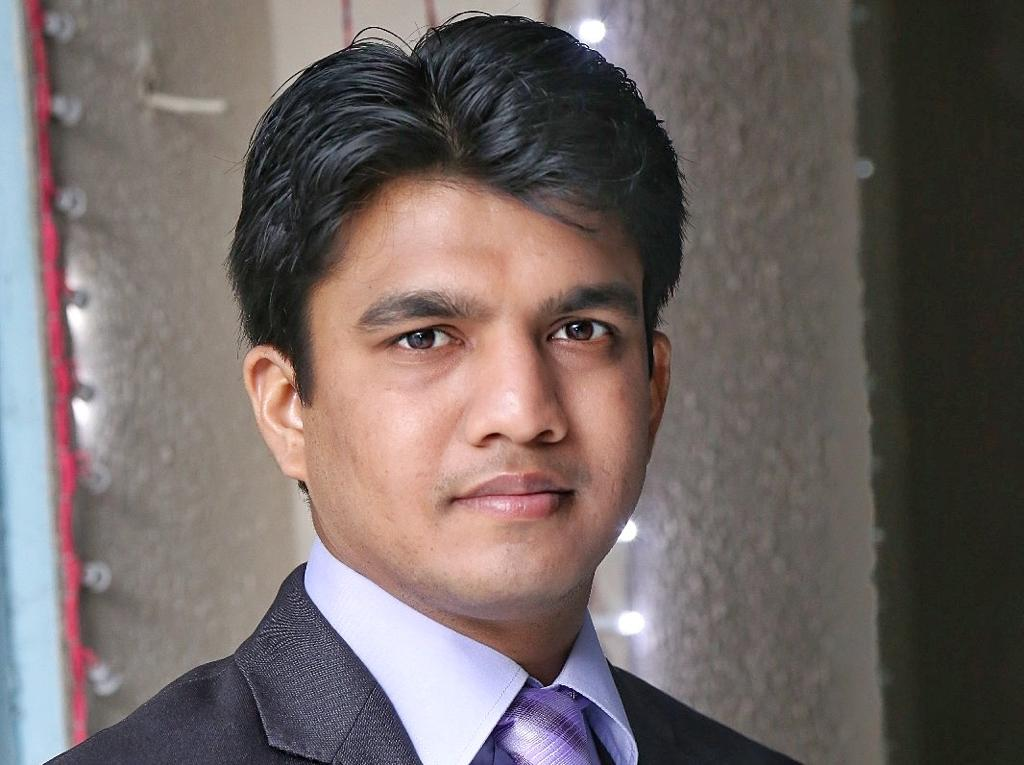
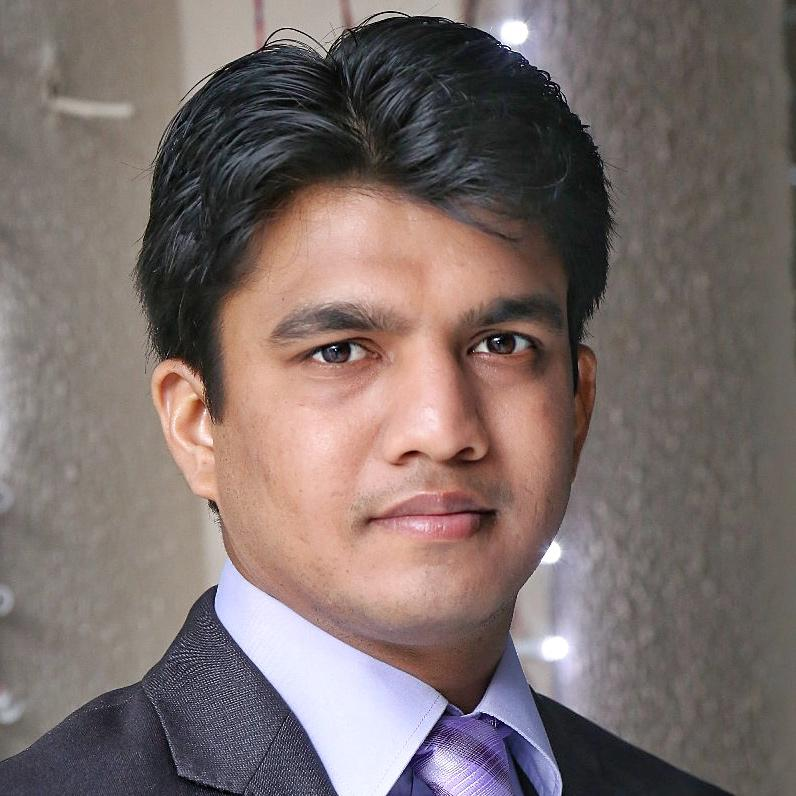
blog changes

diff --git a/_layouts/default.html b/_layouts/default.html
@@ -2,7 +2,7 @@
 layout: compress
 # Default layout
 # v2.0
-# https://github.com/cotes2020/jekyll-theme-chirpy
+
 # © 2017-2019 Cotes Chung
 # MIT Licensed
 ---
@@ -56,7 +56,7 @@ mode="{{ site.theme_mode }}"
         <div class="panel-main__content">
           <a  title="link to home of Pushpak Panchal" href="javascript:void(0)">
             <img src="{{ avatar_url }}" alt="My Profile Photo"
-              style="border-radius: 100%; border: 3px solid; width: 250px;">
+              style="border-radius: 100%; border: 3px solid; width: 200px ;">
             <h1 class="panel-cover__title panel-title">Pushpak Panchal</h1>
           </a>
           <hr class="panel-cover__divider">

diff --git a/assets/css/main.scss b/assets/css/main.scss
@@ -218,8 +218,8 @@ $tab-count: {{ site.data.tabs | size }};
 #avatar {
   >a {
     display: block;
-    width: 6rem;
-    height: 6rem;
+    width: 8rem;
+    height:8rem;
     border-radius: 50%;
     border: 2px solid #b6b6b6;
     overflow: hidden;
@@ -968,8 +968,8 @@ table {
   }
 
   #avatar>a {
-    width: 5rem;
-    height: 5rem;
+    width:8rem;
+    height: 8rem;
   }
 
   #site-subtitle {
@@ -1359,8 +1359,8 @@ table {
     -ms-flex-pack: normal !important;
     justify-content: normal !important;
     >a {
-      width: 6.2rem;
-      height: 6.2rem;
+      width: 8.2rem;
+      height: 8.2rem;
     }
   }
 

diff --git a/404.html b/404.html
@@ -1,7 +1,7 @@
 ---
 # The 404 page
 # v2.0
-# https://github.com/cotes2020/jekyll-theme-chirpy
+
 # © 2017-2019 Cotes Chung
 # MIT License
 layout: page
